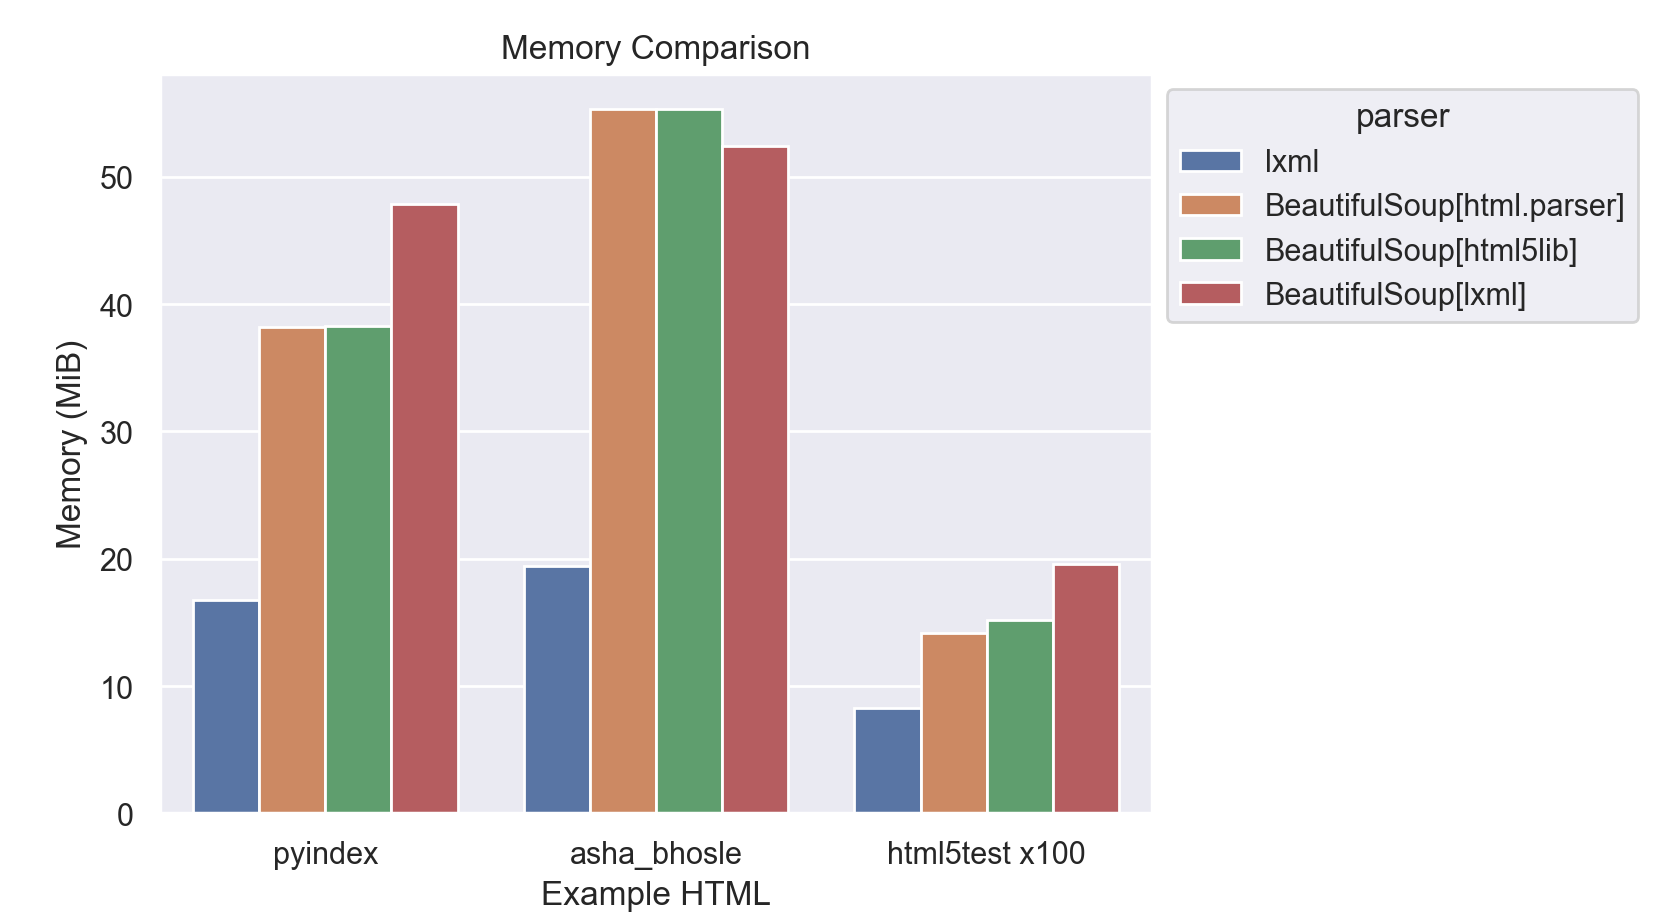
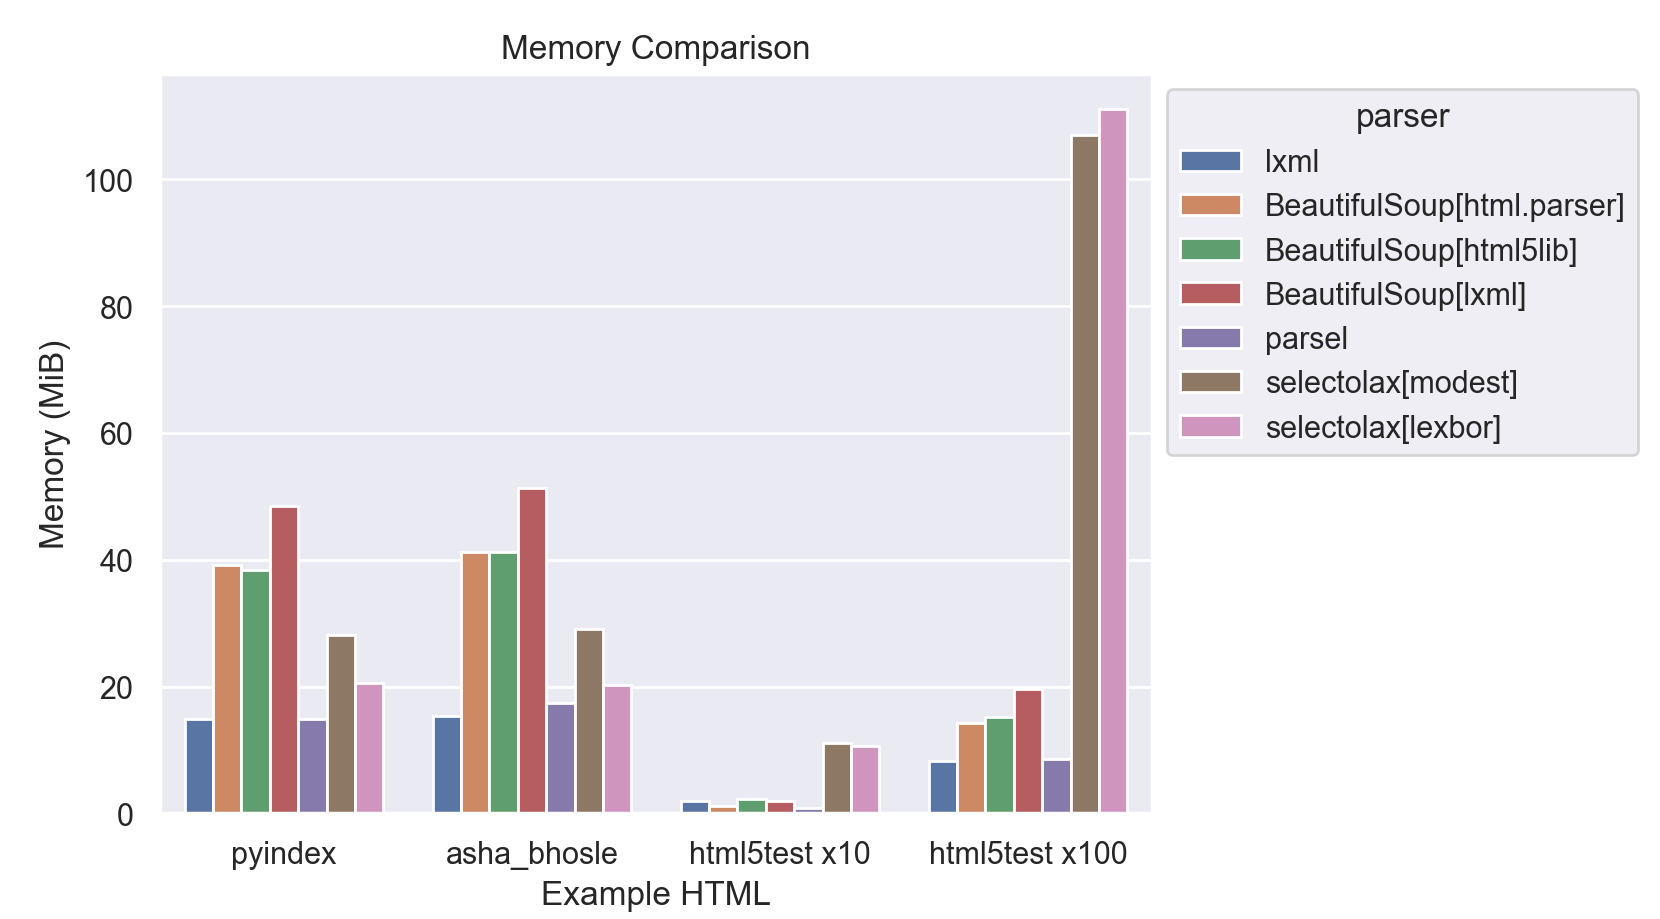
memory update

diff --git a/aows/parsing/memory.py b/aows/parsing/memory.py
@@ -3,31 +3,71 @@ import seaborn as sns
 import matplotlib as mpl
 from matplotlib import pyplot as plt
 
-# from .implementations import Lxml, BSoup
+from .implementations import Lxml, BSoup, Parsel, Selectolax, SelectoLexbor
 
-# lx = Lxml()
-# bs_hp = BSoup("html.parser")
-# bs_h5 = BSoup("html5lib")
-# bs_lx = BSoup("lxml")
 
-# example = "html5test"
-# a = [lx.load_dom(example) for _ in range(100)]
-# b = [bs_hp.load_dom(example) for _ in range(100)]
-# c = [bs_h5.load_dom(example) for _ in range(100)]
-# d = [bs_lx.load_dom(example) for _ in range(100)]
+def load_examples(example, N):
+    lx = Lxml()
+    bs_hp = BSoup("html.parser")
+    bs_h5 = BSoup("html5lib")
+    bs_lx = BSoup("lxml")
+    parsel = Parsel()
+    selectolax = Selectolax()
+    selectolexbor = SelectoLexbor()
+
+    lx_res = [lx.load_dom(example) for _ in range(N)]
+    bs_hp_res = [bs_hp.load_dom(example) for _ in range(N)]
+    bs_h5_res = [bs_h5.load_dom(example) for _ in range(N)]
+    bs_lx_res = [bs_lx.load_dom(example) for _ in range(N)]
+    parsel_res = [parsel.load_dom(example) for _ in range(N)]
+    slax_res = [selectolax.load_dom(example) for _ in range(N)]
+    slex_res = [selectolexbor.load_dom(example) for _ in range(N)]
 
 
 def draw_graph():
     # stats based on running above through memray
     memray_stats = [
-        {"parser": "lxml", "example": "pyindex", "mem": 16.8},
-        {"parser": "BeautifulSoup[html.parser]", "example": "pyindex", "mem": 38.2},
+        # pyindex
+        {"parser": "lxml", "example": "pyindex", "mem": 14.9},
+        {"parser": "BeautifulSoup[html.parser]", "example": "pyindex", "mem": 39.2},
         {"parser": "BeautifulSoup[html5lib]", "example": "pyindex", "mem": 38.3},
-        {"parser": "BeautifulSoup[lxml]", "example": "pyindex", "mem": 47.9},
-        {"parser": "lxml", "example": "asha_bhosle", "mem": 19.4},
-        {"parser": "BeautifulSoup[html.parser]", "example": "asha_bhosle", "mem": 55.3},
-        {"parser": "BeautifulSoup[html5lib]", "example": "asha_bhosle", "mem": 55.3},
-        {"parser": "BeautifulSoup[lxml]", "example": "asha_bhosle", "mem": 52.4},
+        {"parser": "BeautifulSoup[lxml]", "example": "pyindex", "mem": 48.4},
+        {"parser": "parsel", "example": "pyindex", "mem": 14.9},
+        {"parser": "selectolax[modest]", "example": "pyindex", "mem": 28.1},
+        {"parser": "selectolax[lexbor]", "example": "pyindex", "mem": 20.5},
+        # pyindex x 10
+        # {"parser": "lxml", "example": "pyindex x 10", "mem": 148.1},
+        # {
+        #     "parser": "BeautifulSoup[html.parser]",
+        #     "example": "pyindex x 10",
+        #     "mem": 388.9,
+        # },
+        # {"parser": "BeautifulSoup[html5lib]", "example": "pyindex x 10", "mem": 383.9},
+        # {"parser": "BeautifulSoup[lxml]", "example": "pyindex x 10", "mem": 482.1},
+        # {"parser": "parsel", "example": "pyindex x 10", "mem": 152.5},
+        # {"parser": "selectolax[modest]", "example": "pyindex x 10", "mem": 281.2},
+        # {"parser": "selectolax[lexbor]", "example": "pyindex x 10", "mem": 205.3},
+        # asha_bhosle
+        {"parser": "lxml", "example": "asha_bhosle", "mem": 15.3},
+        {"parser": "BeautifulSoup[html.parser]", "example": "asha_bhosle", "mem": 41.2},
+        {"parser": "BeautifulSoup[html5lib]", "example": "asha_bhosle", "mem": 41.2},
+        {"parser": "BeautifulSoup[lxml]", "example": "asha_bhosle", "mem": 51.3},
+        {"parser": "parsel", "example": "asha_bhosle", "mem": 17.4},
+        {"parser": "selectolax[modest]", "example": "asha_bhosle", "mem": 29.1},
+        {"parser": "selectolax[lexbor]", "example": "asha_bhosle", "mem": 20.2},
+        # html5test x 10
+        {"parser": "lxml", "example": "html5test x10", "mem": 2.0},
+        {
+            "parser": "BeautifulSoup[html.parser]",
+            "example": "html5test x10",
+            "mem": 1.1,
+        },
+        {"parser": "BeautifulSoup[html5lib]", "example": "html5test x10", "mem": 2.3},
+        {"parser": "BeautifulSoup[lxml]", "example": "html5test x10", "mem": 2.0},
+        {"parser": "parsel", "example": "html5test x10", "mem": 0.9},
+        {"parser": "selectolax[lexbor]", "example": "html5test x10", "mem": 10.7},
+        {"parser": "selectolax[modest]", "example": "html5test x10", "mem": 11.1},
+        # html5test x 100
         {"parser": "lxml", "example": "html5test x100", "mem": 8.3},
         {
             "parser": "BeautifulSoup[html.parser]",
@@ -36,6 +76,9 @@ def draw_graph():
         },
         {"parser": "BeautifulSoup[html5lib]", "example": "html5test x100", "mem": 15.2},
         {"parser": "BeautifulSoup[lxml]", "example": "html5test x100", "mem": 19.6},
+        {"parser": "parsel", "example": "html5test x100", "mem": 8.6},
+        {"parser": "selectolax[lexbor]", "example": "html5test x100", "mem": 111},
+        {"parser": "selectolax[modest]", "example": "html5test x100", "mem": 107},
     ]
 
     df = pd.DataFrame(memray_stats)
@@ -47,10 +90,11 @@ def draw_graph():
 
     plt.title("Memory Comparison")
     plt.savefig(
-        "img/memory_usage.png",
+        "docs/img/memory_usage.png",
         dpi=200,
         bbox_inches=mpl.transforms.Bbox([[0, 0], [8.3, 4.6]]),
     )
 
 
-draw_graph()
+load_examples(example="html5test", N=1)
+# draw_graph()

diff --git a/aows/parsing/implementations.py b/aows/parsing/implementations.py
@@ -157,7 +157,9 @@ class Parsel(Base):
     skip = ["extract_text", "count_elements"]
 
     def parse_dom(self, html):
-        return Selector(html.decode())
+        if isinstance(html, bytes):
+            html = html.decode()
+        return Selector(html)
 
     def find_tags(self, tree, tag):
         return tree.css(f"{tag}")

diff --git a/aows/parsing/speed.py b/aows/parsing/speed.py
@@ -5,7 +5,7 @@ from matplotlib import pyplot as plt
 import timeit
 from .implementations import BSoup, Lxml, Selectolax, SelectoLexbor, Parsel
 
-
+# TODO: regen graphs w/ count = 100, and normalize colors between runs (reordering parsel to last might do the trick)
 methods = [
     # ("load_dom", 5),
     # ("links_natural", 10),

diff --git a/docs/parsing/performance.md b/docs/parsing/performance.md
@@ -339,13 +339,19 @@ Finally, let's take a look at how much memory each parser uses while handling th
 | pyindex | 1,683,137 | ~34,950 |
 | html5test | 18,992 | 218 |
 
-This is somewhat difficult to measure, as the memory usage of an object is not easily accessible from Python.  I used [memray](https://github.com/bloomberg/memray) to measure a sample piece of code that loaded each parser and parsed the sample pages.  To compare the memory usage between complex pages and simple pages, the sample code also loaded the html5test page 100 times.
+This is somewhat difficult to measure, as the memory usage of an object is not easily accessible from Python.  I used [memray](https://github.com/bloomberg/memray) to measure a sample piece of code that loaded each parser and parsed the sample pages.
 
 ![](/aows/img/memory_usage.png)
 
-One thing to note is that the memory usage seems to be correlated to complexity (i.e. number of tags), which makes sense.
+These results have a lot of interesting things to say about the parsers.
 
-Again, lxml.html is the clear winner here, using less than half the memory of the other parsers.
+First, BeautifulSoup is typically the least-memory efficient. This is probably not surprising, but it is surprising to see that there is a definite memory tax for using it with the `lxml.html` parser.  This is particularly interesting since `lxml.html` is the most-memory efficient parser in each test.
+
+`parsel` performs very well here, with seemingly minimal overhead on top of it's underlying `lxml.html` parser.
+
+`selectolax` looks good, sitting at the midway point between `lxml.html` and `BeautifulSoup`. It struggled however with the `html5test` page, included here with 10x and 100x repetitions to allow for comparison.
+
+It's interesting to see that `selectolax` does so poorly here. It's possible that there is a fixed minimum of memory that selectolax uses for each page, and that the `html5test` page is so small that it is not able to take advantage of that minimum. In practice this shouldn't be an issue, as typically only a single page would be loaded at a time, but it still seems worth noting as an unexpected result.
 
 ## Conclusion
 
@@ -356,6 +362,8 @@ In practice, the real payoffs of using a faster parser are going to be felt the 
 In a 1,000 page scrape from cache of pages similar to our final benchmark, a full trial run would take less than 15 seconds while a full trial run with `html5lib.parser` would take nearly 3 minutes.  At 10,000 pages the difference between the shortest and longest is almost half an hour.
 
 Memory usage might also matter to you, if you are running your scraper on a small VPS or have unusually complex pages, memory usage could be a factor and that's another place where `lxml.html` shines.
+
+TODO: check numbers for these paragraphs w/ final results
 
 Next time, we'll take a look at how flexible each parser is, and how that affects your scrape.
 

diff --git a/docs/bad-rate-limiting.md b/docs/bad-rate-limiting.md
@@ -1,1 +1,1 @@
-### TODO: Bad Ways to Do Rate Limiting
+### Bad Ways to Do Rate Limiting
